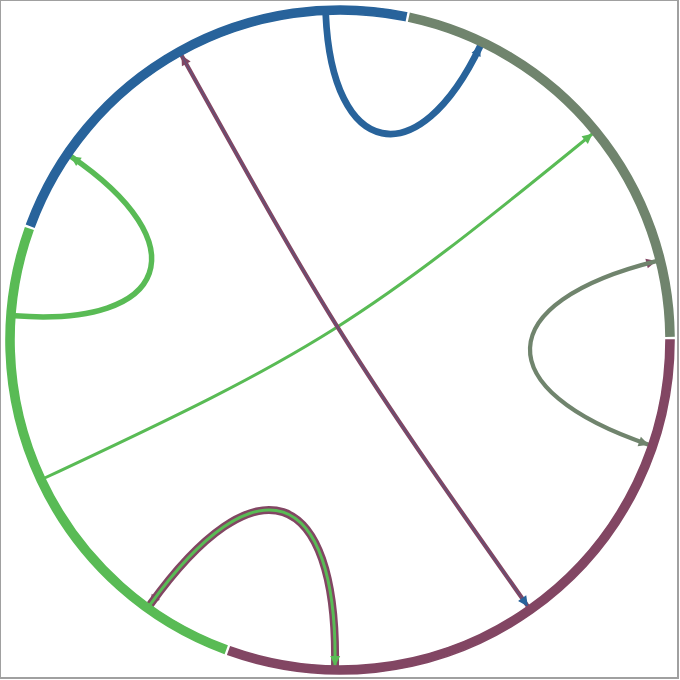
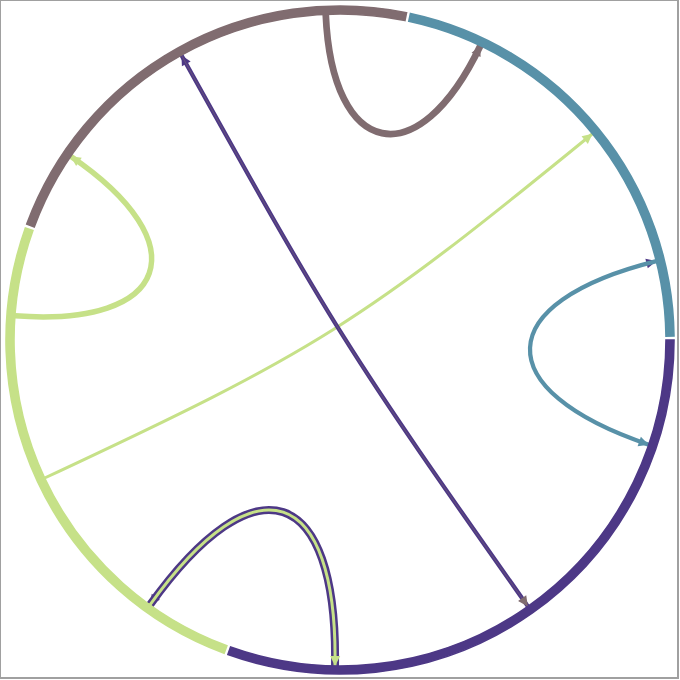
Updated gallery pictures to match the colour hashing functions

diff --git a/docs/generate_images.py b/docs/generate_images.py
@@ -1,0 +1,132 @@
+#!/usr/bin/env python
+"""Regenerate the README gallery images in docs/images/.
+
+polars2svg renders to SVG. PyPI does not render SVG in READMEs (and strips it),
+so the landing-page gallery needs PNGs. svglib (the dev-only rasterizer used by
+the golden-image tests) silently drops the plot marks, so these PNGs are produced
+by a headless Chrome screenshot of the SVG at 2x device scale for crisp output.
+
+Usage:
+    .venv/bin/python docs/generate_images.py
+
+Requires Google Chrome installed at the macOS default path (edit CHROME below for
+other platforms). Deterministic: seeds are fixed, so re-running reproduces the
+same images byte-for-similar (Chrome rasterization is stable across runs on a
+given machine).
+"""
+import os
+import re
+import random
+import tempfile
+import subprocess
+
+import networkx as nx
+import polars as pl
+from polars2svg import Polars2SVG
+
+CHROME = "/Applications/Google Chrome.app/Contents/MacOS/Google Chrome"
+IMAGES_DIR = os.path.join(os.path.dirname(__file__), "images")
+SCALE = 2
+
+p2s = Polars2SVG()
+
+
+def _svg_dims(svg):
+    w = re.search(r'width="(\d+(?:\.\d+)?)"', svg)
+    h = re.search(r'height="(\d+(?:\.\d+)?)"', svg)
+    return int(float(w.group(1))), int(float(h.group(1)))
+
+
+def render_png(svg, name):
+    w, h = _svg_dims(svg)
+    html = (
+        '<!doctype html><html><head><meta charset="utf-8">'
+        '<style>*{margin:0;padding:0}html,body{background:#fff}</style>'
+        f"</head><body>{svg}</body></html>"
+    )
+    with tempfile.NamedTemporaryFile("w", suffix=".html", delete=False, dir=IMAGES_DIR) as f:
+        f.write(html)
+        html_path = f.name
+    out = os.path.join(IMAGES_DIR, name)
+    try:
+        subprocess.run(
+            [
+                CHROME, "--headless", "--disable-gpu", "--hide-scrollbars",
+                f"--force-device-scale-factor={SCALE}",
+                f"--window-size={w},{h}",
+                "--default-background-color=FFFFFFFF",
+                f"--screenshot={out}",
+                f"file://{html_path}",
+            ],
+            check=True,
+            capture_output=True,
+        )
+    finally:
+        os.unlink(html_path)
+    print(f"saved {out} ({w * SCALE}x{h * SCALE})")
+
+
+def make_xyp():
+    random.seed(7)
+    n = 120
+    df = pl.DataFrame({
+        "x":     [random.gauss(0, 1) for _ in range(n)],
+        "y":     [random.gauss(0, 1) for _ in range(n)],
+        "group": [random.choice(["alpha", "beta", "gamma"]) for _ in range(n)],
+    })
+    render_png(p2s.xyp(df, "x", "y", color="group", dot_size=5, wxh=(360, 300)).svg,
+               "xyp_scatter.png")
+
+
+def make_linkp():
+    edges = [
+        ("api", "auth"), ("api", "db"), ("api", "cache"), ("auth", "db"),
+        ("web", "api"), ("web", "cdn"), ("worker", "db"), ("worker", "queue"),
+        ("queue", "worker"), ("cache", "db"), ("cdn", "web"), ("mobile", "api"),
+        ("mobile", "cdn"), ("report", "db"), ("report", "cache"),
+    ]
+    tier = {
+        "web": "edge", "mobile": "edge", "cdn": "edge", "api": "service",
+        "auth": "service", "worker": "service", "report": "service",
+        "db": "data", "cache": "data", "queue": "data",
+    }
+    df = pl.DataFrame({
+        "src": [a for a, _ in edges],
+        "dst": [b for _, b in edges],
+        "tier": [tier[a] for a, _ in edges],
+    })
+    # Explicit positions: without pos= linkp places nodes with random.random() in an
+    # order that varies between processes, so random.seed() alone does not pin it.
+    pos = nx.spring_layout(nx.Graph(edges), seed=3)
+    render_png(
+        p2s.linkp(df, [("src", "dst")], pos={n: (float(x), float(y)) for n, (x, y) in pos.items()},
+                  node_color="tier", color="tier",
+                  node_size="medium", draw_node_labels=True, wxh=(360, 340)).svg,
+        "linkp_network.png",
+    )
+
+
+def make_chordp():
+    flows = [
+        ("North", "South", 8.0), ("North", "East", 5.0), ("North", "West", 3.0),
+        ("South", "East", 6.0), ("South", "West", 4.0), ("East", "West", 7.0),
+        ("West", "North", 5.0), ("East", "North", 2.0), ("South", "North", 4.0),
+    ]
+    df = pl.DataFrame({
+        "fm":     [a for a, _, _ in flows],
+        "to":     [b for _, b, _ in flows],
+        "weight": [w for _, _, w in flows],
+    })
+    render_png(
+        p2s.chordp(df, [("fm", "to")], count="weight", node_size="vary",
+                   link_size="vary", color="fm",
+                   node_color=p2s.COLOR_BY_NODE_NAME, wxh=(340, 340)).svg,
+        "chordp_flows.png",
+    )
+
+
+if __name__ == "__main__":
+    os.makedirs(IMAGES_DIR, exist_ok=True)
+    make_xyp()
+    make_linkp()
+    make_chordp()
